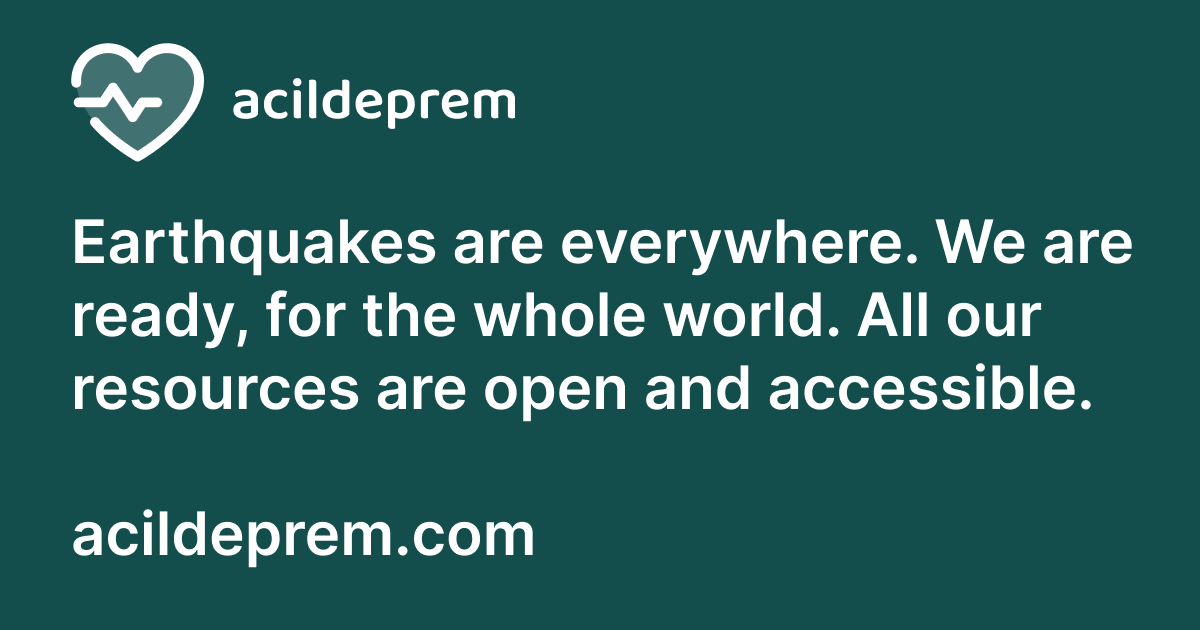
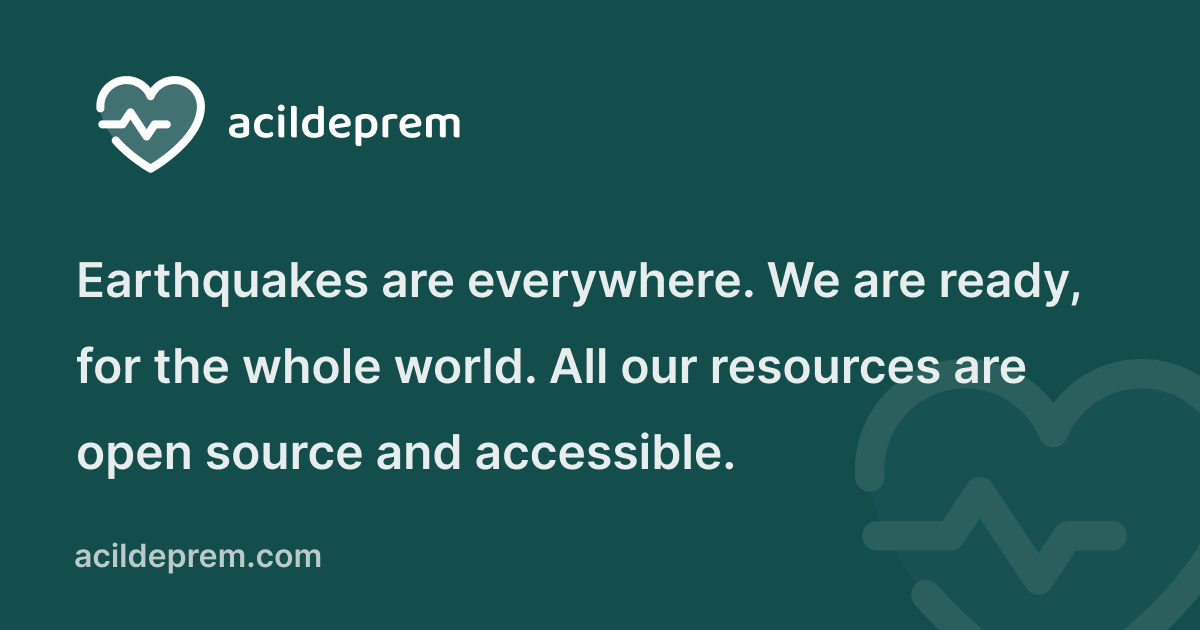
fix: general

diff --git a/README.md b/README.md
@@ -1,8 +1,19 @@
-# deprem
+# acildeprem TR
 Bu proje Türkiyedeki depremin yaralarını sarabilmek amacıyla üretildi.
+Ama her depremde olduğu gibi bu deprem de bize bir şeyler öğretti.
+Bir depremde en önemli şey, birbirimizi desteklemek ve yardıma koşmak.
+Dünyadan birçok ekip ve insan bize yardımcı oldu. Biz de bu projeyi açık kaynak olarak paylaşarak, dünyanın her yerinden insanlara yardımcı olmaya çalışıyoruz.
 
+Deprem her an her yerde. Biz hazırız, tüm dünya için. Tüm kaynaklarımız açık kaynak ve erişilebilir.
 
-Yazılım konusunda destek vermek istiyorsanız, discord sunucumuza katılabilirsiniz. Deprem etiketi bölümünden bu projeye katkıda bulunabilirsiniz. Ayrıca pr veya issue açarak katkıda bulunabilirsiniz.
+# acildeprem EN
+This project is produced in order to heal the wounds of the earthquake in Turkey.
+But as in every earthquake, this earthquake offers us something.
+The most important thing in an earthquake is to support and force the force.
+Many teams and people from around the world helped us. We are trying to help people from all over the world by sharing this project as open source.
+
+Earthquakes are everywhere. We are ready, for the whole world. All of our resources are open source and accessible.
+
 
 ## Kurulum
 
@@ -11,6 +22,7 @@ Node.js 18.0.0 veya üstü
 Pnpm 7.26.3
 
 ### Kullandığımız teknolojiler
+- [Nuxt 3](https://nuxt.com)
 - [Vue 3](https://vuejs.org/)
 - [Vite](https://vitejs.dev/)
 - [Tailwind CSS](https://tailwindcss.com/)
